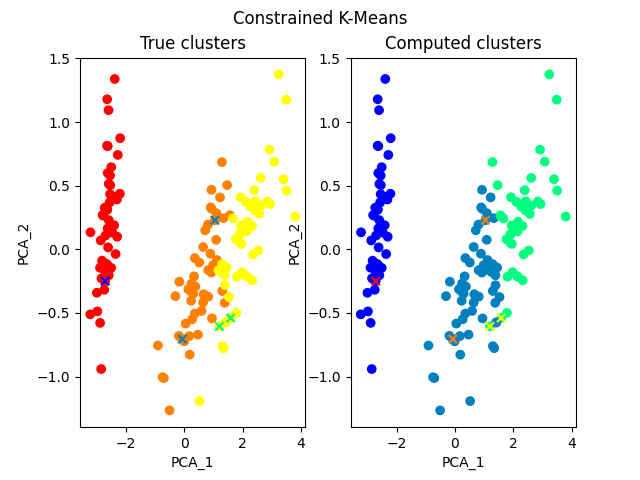
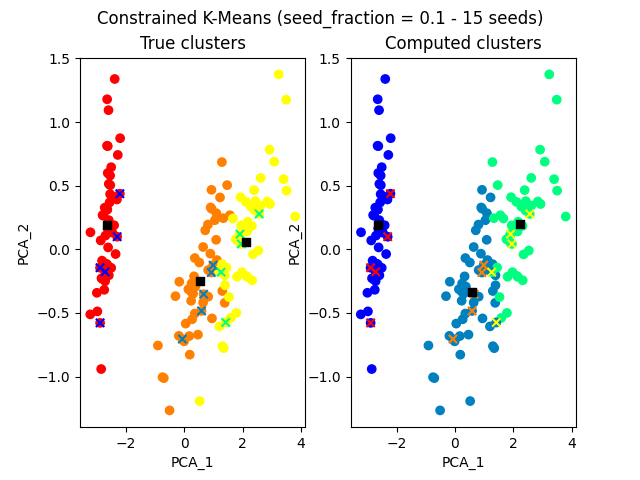
Seed fraction addition, plotting centroids, cross-validation & avg metrics evaluation

diff --git a/src/seededkm/seededkm.py b/src/seededkm/seededkm.py
@@ -2,21 +2,29 @@ from src.utils.centroidutils import compute_initial_centroids_from_seed_set, is_
 import numpy as np
 from src.utils.visualisationutils import visualise_clusters
 from sklearn import metrics
+from scipy.spatial import distance
 
 class SeededKMeans():
-    def __init__(self, n_clusters = 0, max_iter = 100):
+    def __init__(self, seed_fraction, n_clusters, max_iter = 100):
         self.n_clusters = n_clusters
+        self.seed_fraction = seed_fraction
         self.max_iter = max_iter
         self.X = np.array([])
         self.y = np.array([])
         self.labels = np.array([])
         self.orig_seed_labels = np.array([])
         self.centroids = np.array([])
+        self.ari = -1
+        self.ami = -1
+        self.ari_intermediate = 0
+        self.ami_intermediate = 0
         self._check_params()
 
     def _check_params(self):
         if self.n_clusters <= 0:
             raise ValueError('No. of clusters should be a positive integer')
+        if self.seed_fraction <= 0 or self.seed_fraction > 1:
+            raise ValueError('seed_fraction should be (0, 1]')
         #TODO - introduce more checks
 
     def fit(self, X, y, init_seed_set):
@@ -39,14 +47,35 @@ class SeededKMeans():
     def visualise_results(self):
         # each of the seed's index in X -> labels[index]
         computed_seed_labels = np.array([self.labels[np.flatnonzero((self.X == seed).all(1))[0]] for seed in self.seeds])
-        visualise_clusters('Seeded K-Means', self.X, self.y, self.labels, self.seeds, self.orig_seed_labels, computed_seed_labels)
+        visualise_clusters('Seeded K-Means', self.X, self.y, self.labels, self.n_clusters, self.seeds, self.seed_fraction, self.orig_seed_labels, computed_seed_labels)
 
-    def predict(self, x_test):
-        # TODO
-        self.x_test = x_test
+    def predict(self, X_test, y_test):
+        self.X_test = X_test
+        self.y_test = y_test
+        self.test_labels = [np.argmin([distance.euclidean(x, centroid) for centroid in self.centroids]) for x in X_test]
 
-    def evaluate(self):
-        print('\nSeeded K-Means evaluation:')
-        print('Adjusted RAND Score: {}'.format(metrics.adjusted_rand_score(self.y, self.labels)))
-        print('Adjusted Mutual Info Score: {}'.format(metrics.adjusted_mutual_info_score(self.y, self.labels)))
+    def evaluate_train(self):
+        print('\nSeeded K-Means training evaluation:')
+        self.evaluate(self.y, self.labels)
 
+    def evaluate_test(self):
+        print('\nSeeded K-Means test evaluation:')
+        self.evaluate(self.y_test, self.test_labels)
+
+    def evaluate(self, true_labels, computed_labels):
+        print('Adjusted RAND Score: {}'.format(metrics.adjusted_rand_score(true_labels, computed_labels)))
+        print('Adjusted Mutual Info Score: {}'.format(metrics.adjusted_mutual_info_score(true_labels, computed_labels)))
+
+    def evaluate_fold(self, n_fold, iter):
+        if iter == 0:
+            self.ari_intermediate = 0
+            self.ami_intermediate = 0
+        self.ari_intermediate += metrics.adjusted_rand_score(self.y_test, self.test_labels)
+        self.ami_intermediate += metrics.adjusted_mutual_info_score(self.y_test, self.test_labels)
+        self.ari = -1
+        self.ami = -1
+        if iter == n_fold - 1:
+            self.ari = self.ari_intermediate / n_fold
+            self.ami = self.ami_intermediate / n_fold
+
+        return self.ari, self.ami

diff --git a/src/constrainedkm/constrainedkm.py b/src/constrainedkm/constrainedkm.py
@@ -2,21 +2,29 @@ from src.utils.centroidutils import compute_initial_centroids_from_seed_set, is_
 import numpy as np
 from src.utils.visualisationutils import visualise_clusters
 from sklearn import metrics
+from scipy.spatial import distance
 
 class ConstrainedKMeans():
-    def __init__(self, n_clusters = 0, max_iter = 100):
+    def __init__(self, seed_fraction, n_clusters, max_iter = 100):
         self.n_clusters = n_clusters
+        self.seed_fraction = seed_fraction
         self.max_iter = max_iter
         self.X = np.array([])
         self.y = np.array([])
         self.labels = np.array([])
         self.orig_seed_labels = np.array([])
         self.centroids = np.array([])
+        self.ari = -1
+        self.ami = -1
+        self.ari_intermediate = 0
+        self.ami_intermediate = 0
         self._check_params()
 
     def _check_params(self):
         if self.n_clusters <= 0:
             raise ValueError('No. of clusters should be a positive integer')
+        if self.seed_fraction <= 0 or self.seed_fraction > 1:
+            raise ValueError('seed_fraction should be (0, 1]')
         #TODO - introduce more checks
 
     def fit(self, X, y, init_seed_set):
@@ -38,13 +46,35 @@ class ConstrainedKMeans():
 
     def visualise_results(self):
         computed_seed_labels = [self.labels[ind] for ind in self.seed_indices]
-        visualise_clusters('Constrained K-Means', self.X, self.y, self.labels, self.seeds, self.orig_seed_labels, computed_seed_labels)
+        visualise_clusters('Constrained K-Means', self.X, self.y, self.labels, self.n_clusters, self.seeds, self.seed_fraction, self.orig_seed_labels, computed_seed_labels)
 
-    def predict(self, x_test):
-        # TODO
-        self.x_test = x_test
+    def predict(self, X_test, y_test):
+        self.X_test = X_test
+        self.y_test = y_test
+        self.test_labels = [np.argmin([distance.euclidean(x, centroid) for centroid in self.centroids]) for x in X_test]
 
-    def evaluate(self):
-        print('\nConstrained K-Means evaluation:')
-        print('Adjusted RAND Score: {}'.format(metrics.adjusted_rand_score(self.y, self.labels)))
-        print('Adjusted Mutual Info Score: {}'.format(metrics.adjusted_mutual_info_score(self.y, self.labels)))
+    def evaluate_train(self):
+        print('\nConstrained K-Means training evaluation:')
+        self.evaluate(self.y, self.labels)
+
+    def evaluate_test(self):
+        print('\nConstrained K-Means test evaluation:')
+        self.evaluate(self.y_test, self.test_labels)
+
+    def evaluate(self, true_labels, computed_labels):
+        print('Adjusted RAND Score: {}'.format(metrics.adjusted_rand_score(true_labels, computed_labels)))
+        print('Adjusted Mutual Info Score: {}'.format(metrics.adjusted_mutual_info_score(true_labels, computed_labels)))
+
+    def evaluate_fold(self, n_fold, iter):
+        if iter == 0:
+            self.ari_intermediate = 0
+            self.ami_intermediate = 0
+        self.ari_intermediate += metrics.adjusted_rand_score(self.y_test, self.test_labels)
+        self.ami_intermediate += metrics.adjusted_mutual_info_score(self.y_test, self.test_labels)
+        self.ari = -1
+        self.ami = -1
+        if iter == n_fold - 1:
+            self.ari = self.ari_intermediate / n_fold
+            self.ami = self.ami_intermediate / n_fold
+
+        return self.ari, self.ami

diff --git a/src/utils/visualisationutils.py b/src/utils/visualisationutils.py
@@ -1,26 +1,37 @@
 from sklearn.decomposition import PCA
 import matplotlib.pyplot as plt
 import numpy as np
+from operator import itemgetter
 
-def visualise_clusters(algo_name, X, y, computed_y, seeds, orig_seed_labels, computed_seed_labels):
+def visualise_clusters(algo_name, X, y, computed_y, n_clusters, seeds, seed_fraction, orig_seed_labels, computed_seed_labels):
     pca = PCA(n_components=2)
     pca_result = pca.fit_transform(X)
     # each of the seed's index in X -> pca_result[index]
     new_seeds = np.array([pca_result[np.flatnonzero((X == seed).all(1))[0]] for seed in seeds])
 
+    pca_centroids_orig = np.zeros((n_clusters, 2))
+    pca_centroids_computed = np.zeros((n_clusters, 2))
+    for cluster_no in range(n_clusters):
+        pca_cluster_members_orig = np.array(itemgetter(*list(np.where(np.array(y) == cluster_no)[0]))(pca_result))
+        pca_cluster_members_computed = np.array(itemgetter(*list(np.where(np.array(computed_y) == cluster_no)[0]))(pca_result))
+        pca_centroids_orig[cluster_no] = [np.sum(pca_cluster_members_orig[:, feature_no])/pca_cluster_members_orig.shape[0] for feature_no in range(2)]
+        pca_centroids_computed[cluster_no] = [np.sum(pca_cluster_members_computed[:, feature_no]) / pca_cluster_members_computed.shape[0] for feature_no in range(2)]
+
     fig = plt.figure()
-    fig.suptitle(algo_name)
+    fig.suptitle(algo_name + ' (seed_fraction = ' + str(seed_fraction) + ' - ' + str(seeds.shape[0]) + ' seeds)')
     subplot_orig = fig.add_subplot(121)
     subplot_computed = fig.add_subplot(122)
 
     subplot_orig.scatter(pca_result[:, 0], pca_result[:, 1], c = y, cmap = plt.cm.autumn)
     subplot_orig.scatter(new_seeds[:, 0], new_seeds[:, 1], c = orig_seed_labels, marker='x', cmap = plt.cm.winter)
+    subplot_orig.scatter(pca_centroids_orig[:, 0], pca_centroids_orig[:, 1], c = 'black', marker = 's')
     subplot_orig.set_title('True clusters')
     subplot_orig.set_xlabel('PCA_1')
     subplot_orig.set_ylabel('PCA_2')
 
     subplot_computed.scatter(pca_result[:, 0], pca_result[:, 1], c = computed_y, cmap = plt.cm.winter)
     subplot_computed.scatter(new_seeds[:, 0], new_seeds[:, 1], c = computed_seed_labels, marker='x', cmap = plt.cm.autumn)
+    subplot_computed.scatter(pca_centroids_computed[:, 0], pca_centroids_computed[:, 1], c = 'black', marker = 's')
     subplot_computed.set_title('Computed clusters')
     subplot_computed.set_xlabel('PCA_1')
     subplot_computed.set_ylabel('PCA_2')

diff --git a/src/runners/iris_runner.py b/src/runners/iris_runner.py
@@ -2,19 +2,35 @@ from src.seededkm.seededkm import SeededKMeans
 from src.constrainedkm.constrainedkm import ConstrainedKMeans
 from src.utils.seedutils import get_init_seed_set
 from sklearn import datasets
+from sklearn.model_selection import train_test_split
 
-def cluster(n_clusters, n_seeds, manually_annotate):
+def cluster(n_clusters, seed_fraction, manually_annotate, n_fold):
     iris = datasets.load_iris()
     X = iris.data
     y = iris.target
-    init_seed_set = get_init_seed_set(X = X, y = y, n_seeds = n_seeds, n_clusters = n_clusters, manually_annotate = manually_annotate)
 
-    skm = SeededKMeans(n_clusters)
-    skm.fit(X, y, init_seed_set)
-    skm.visualise_results()
-    skm.evaluate()
+    skm = SeededKMeans(seed_fraction, n_clusters)
+    for iter in range(n_fold):
+        X_train, X_test, y_train, y_test = train_test_split(X, y, test_size = 0.1)
+        init_seed_set = get_init_seed_set(X=X_train, y=y_train, seed_fraction=seed_fraction, n_clusters=n_clusters, manually_annotate=manually_annotate)
+        skm.fit(X_train, y_train, init_seed_set)
+        skm.predict(X_test, y_test)
+        # skm.visualise_results()
+        # skm.evaluate_train()
+        # skm.evaluate_test()
+        ari, ami = skm.evaluate_fold(n_fold, iter)
+        if ari >= 0 and ami >= 0:
+            print('Seeded K-Means avg over {} folds: ARI = {}, AMI = {}'.format(n_fold, ari, ami))
 
-    ckm = ConstrainedKMeans(n_clusters)
-    ckm.fit(X, y, init_seed_set)
-    ckm.visualise_results()
-    ckm.evaluate()
+    ckm = ConstrainedKMeans(seed_fraction, n_clusters)
+    for iter in range(n_fold):
+        X_train, X_test, y_train, y_test = train_test_split(X, y, test_size=0.1)
+        init_seed_set = get_init_seed_set(X=X_train, y=y_train, seed_fraction=seed_fraction, n_clusters=n_clusters, manually_annotate=manually_annotate)
+        ckm.fit(X_train, y_train, init_seed_set)
+        ckm.predict(X_test, y_test)
+        # ckm.visualise_results()
+        # ckm.evaluate_train()
+        # ckm.evaluate_test()
+        ari, ami = ckm.evaluate_fold(n_fold, iter)
+        if ari >= 0 and ami >= 0:
+            print('Constrained K-Means avg over {} folds: ARI = {}, AMI = {}'.format(n_fold, ari, ami))

diff --git a/src/utils/seedutils.py b/src/utils/seedutils.py
@@ -3,9 +3,10 @@ import warnings
 import pandas as pd
 import math
 
-def get_init_seed_set(X, y = np.array([]), n_seeds = 0, n_clusters = 0, manually_annotate = False):
+def get_init_seed_set(X, y = np.array([]), seed_fraction = 0.1, n_clusters = 0, manually_annotate = False):
     if n_clusters <= 0:
         raise ValueError('No. of clusters should be a positive integer')
+    n_seeds = int(seed_fraction * X.shape[0])
     if n_seeds <= n_clusters:
         raise ValueError('No. of seeds should be >= no. of clusters')
     if not y.size and not manually_annotate:
@@ -19,7 +20,6 @@ def get_init_seed_set(X, y = np.array([]), n_seeds = 0, n_clusters = 0, manually
         init_seed_set = _sample_n_seeds(n_seeds, n_clusters, pd.DataFrame(np.c_[X, y]), False)
     # Since true labels are not available, user needs to manually annotate the randomly chosen seeds until **at least one seed per class** condition is satisfied
     else:
-        # TODO
         print('Manually annotate the seeds selected below with the cluster no. (0 - {}):\n'.format(n_clusters - 1))
         init_seed_set = _sample_n_seeds(n_seeds, n_clusters, pd.DataFrame(X), True)
         cluster = np.zeros((init_seed_set.shape[0], 1))

diff --git a/src/main.py b/src/main.py
@@ -3,12 +3,13 @@ from src.runners.twentynewsgroups_runner import cluster as twentynewsgroups
 
 available_dataset_runners = [iris, twentynewsgroups]
 
+n_fold = 10
 n_clusters = 3
-n_seeds = 5
+seed_fraction = 0.1
 manually_annotate = False
 runner = iris
 
 if runner not in available_dataset_runners:
     raise ValueError('Select dataset from a list of available ones!')
 else:
-    runner(n_clusters, n_seeds, manually_annotate)
+    runner(n_clusters, seed_fraction, manually_annotate, n_fold)

diff --git a/src/runners/twentynewsgroups_runner.py b/src/runners/twentynewsgroups_runner.py
@@ -1,2 +1,2 @@
-def cluster(n_clusters, n_seeds, manually_annotate):
+def cluster(n_clusters, seed_fraction, manually_annotate, n_fold):
     print('To be implemented')
